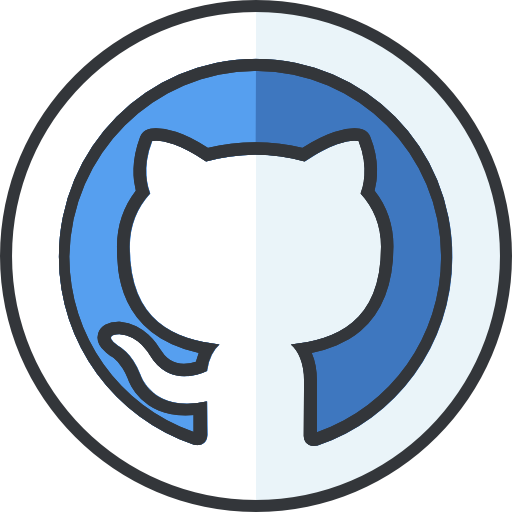
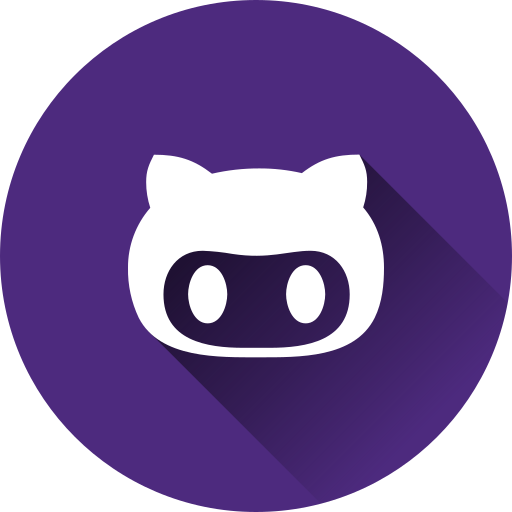
Cambiar el diseño del contenido
Le hice unos contenedores a los proyectos, cambie mi avatar, añadí mis redes sociales en el hero quitando el botón de contactar, eliminé el icono de github que estaba en la barra de navegación, y cambie el icono que se ve en la pestaña. Solo falta quitar unos selectores sin funcionamiento en el css.

diff --git a/index.html b/index.html
@@ -6,7 +6,7 @@
     <meta name="viewport" content="width=device-width, initial-scale=1.0">
     <title>Portafolio de proyectos: Jesús Mendoza</title>
     <meta name="description" content="Portafolio web de Jesús Mendoza, Ingeniero de Software. Descubre mis proyectos y habilidades en desarrollo y diseño web.">
-    <link rel="icon" href="img/home-icon.png">
+    <link rel="icon" href="img/page-icon.png">
     <link rel="stylesheet" href="css/normalize.css">
     <link rel="preconnect" href="https://fonts.googleapis.com">
     <link rel="preconnect" href="https://fonts.gstatic.com" crossorigin>
@@ -20,18 +20,15 @@
             <a href="index.html">Inicio</a>
             <a href="#servicios">Servicios</a>
             <a href="#proyectos">Proyectos</a>
-            <a class="github" target="_blank" href="https://github.com/jmendozadev">
-                <img src="img/github.png" alt="github">
-            </a>
         </nav>
     </div>
 
     <section class="hero">
         <div class="contenido-hero">
-            <img src="img/profile-photo.jpg" alt="foto de perfil" class="profile-photo">
+            <img src="img/avatar.png" alt="foto de perfil" class="profile-photo">
             <h2>Hola, soy <span>Jesús Mendoza</span></h2>
             <p class="descripcion"><span>Ingeniero de Software.</span> Enfocado en desarrollo web y diseño UX/UI. Diseño soluciones digitales funcionales, escalables y centradas en la experiencia.</p> 
-            <div class="ubicacion">
+<!--             <div class="ubicacion">
                 <svg xmlns="http://www.w3.org/2000/svg" class="icon icon-tabler icon-tabler-map-pin" width="60"
                     height="60" viewBox="0 0 24 24" stroke-width="1.5" stroke="#BBCDE5" fill="none"
                     stroke-linecap="round" stroke-linejoin="round">
@@ -40,15 +37,28 @@
                     <path d="M17.657 16.657l-4.243 4.243a2 2 0 0 1 -2.827 0l-4.244 -4.243a8 8 0 1 1 11.314 0z" />
                 </svg>
                 <p>Coatzacoalcos, Veracruz</p>
+            </div> -->
+            <!-- <a class="boton" href="mailto:jmendozadev@gmail.com">Contactar</a> -->
+            <div class="redes-sociales">
+                <a target="_blank" href="https://github.com/itsjesusdev">
+                    <img src="img/github.png" alt="github">
+                </a>
+                <a target="_blank" href="https://www.instagram.com/its.jesusdev/">
+                    <img src="img/instagram.png" alt="instagram">
+                </a>
+                <a target="_blank" href="https://www.linkedin.com/in/jesus-mendoza-mendoza/">
+                    <img class="linkedin" src="img/linkedin.png" alt="linkedin">
+                </a>
             </div>
-            <a class="boton" href="mailto:jmendozadev@gmail.com">Contactar</a>
+
+            </div>
         </div>
     </section>
 
-    <main class="contenedor sombra">
+    <main class="contenedor sombra-contenedor">
         <h2 id="servicios">Mis Servicios</h2>
         <div class="servicios">
-            <section class="servicio">
+            <section class="servicio servicio-web">
                 <h3>Desarrollo Web</h3>
                 <div class="iconos">
                     <svg xmlns="http://www.w3.org/2000/svg" class="icon icon-tabler icon-tabler-brand-html5" width="40"
@@ -59,10 +69,10 @@
                         <path d="M15.5 8h-7l.5 4h6l-.5 3.5l-2.5 .75l-2.5 -.75l-.1 -.5" />
                     </svg>
                 </div>
-                <p>Creo sitios web rápidos, seguros y escalables.</p>
+                <p>Sitios web rápidos, seguros y escalables.</p>
             </section>
 
-            <section class="servicio">
+            <section class="servicio servicio-uxui">
                 <h3>Diseño UX/UI</h3>
                 <div class="iconos">
                     <svg xmlns="http://www.w3.org/2000/svg" class="icon icon-tabler icon-tabler-palette" width="40"
@@ -76,14 +86,14 @@
                         <path d="M16.5 10.5m-1 0a1 1 0 1 0 2 0a1 1 0 1 0 -2 0" />
                     </svg>
                 </div>
-                <p>Transformo ideas en diseño atractivo, experiencias de usuario intuitivas y funcionales.</p>
+                <p>Experiencias de usuario intuitivas, y diseño atractivo.</p>
             </section>
         </div>
 
         <h2 id="proyectos">Mis Proyectos</h2>
         <div class="proyectos">
-            <section class="proyecto">
-                <img src="img/homepage-portafolio-web.jpg" alt="Proyecto 2">
+            <section class="proyecto sombra-proyecto">
+                <img class="project-ss" src="img/homepage-portafolio-web.jpg" alt="Proyecto 2">
                 <div class="contenido-proyecto">
                     <h3>Portafolio Web Personal</h3>
                     <p>Sitio web que presenta mi trayectoria y proyectos como ingeniero de software.</p>
@@ -98,8 +108,8 @@
                 </div>
             </section>
 
-            <section class="proyecto">
-                <img src="img/blog-literario.png" alt="Blog Literario">
+            <section class="proyecto sombra-proyecto">
+                <img class="project-ss" src="img/blog-literario.png" alt="Blog Literario">
                 <div class="contenido-proyecto">
                     <h3>Blog Literario</h3>
                     <p>Blog sobre reseñas de lecturas que alguien ha leído. Presenta contenido técnico de forma clara y estructurada.</p>
@@ -114,8 +124,8 @@
                 </div>
             </section>
 
-            <section class="proyecto">
-                <img src="img/homepage-ecommerce.jpg" alt="Proyecto 3">
+            <section class="proyecto sombra-proyecto">
+                <img class="project-ss" src="img/homepage-ecommerce.jpg" alt="Proyecto 3">
                 <div class="contenido-proyecto">
                     <h3>E-commerce de Camisetas</h3>
                     <p>Tienda en línea desarrollada como práctica de curso, utilizando HTML y CSS.</p>
@@ -130,8 +140,8 @@
                 </div>
             </section>
 
-            <section class="proyecto">
-                <img src="img/homepage-empleate.jpg" alt="Proyecto 5">
+            <section class="proyecto sombra-proyecto">
+                <img class="project-ss" src="img/homepage-empleate.jpg" alt="Proyecto 5">
                 <div class="contenido-proyecto">
                     <h3>Portal de Vacantes</h3>
                     <p>Aplicación web desarrollada con Laravel para gestionar ofertas de empleo del Ayuntamiento de Coatzacoalcos.</p>
@@ -143,8 +153,8 @@
                 </div>
             </section>
 
-            <section class="proyecto">
-                <img src="img/proyecto4.png" alt="Proyecto 6">
+            <section class="proyecto sombra-proyecto">
+                <img class="project-ss" src="img/proyecto4.png" alt="Proyecto 6">
                 <div class="contenido-proyecto">
                     <h3>Gestor de Cotizaciones y Carrito</h3>
                     <p>Aplicación web desarrollada con Laravel para administrar carritos de compra y generar cotizaciones, optimizando el flujo de ventas en línea.</p>
@@ -156,8 +166,8 @@
                 </div>
             </section>
 
-            <section class="proyecto">
-                <img src="img/proyecto6.png" alt="Proyecto 8">
+            <section class="proyecto sombra-proyecto">
+                <img class="project-ss" src="img/proyecto6.png" alt="Proyecto 8">
                     <div class="contenido-proyecto">
                     <h3>Prototipo UX - Plataforma Multimedia</h3>
                     <p>Diseño de alta fidelidad para red social enfocada en contenido multimedia.</p>
@@ -169,8 +179,8 @@
                 </div>
             </section>
 
-            <section class="proyecto">
-                <img src="img/proyecto7.png" alt="Proyecto 9">
+            <section class="proyecto sombra-proyecto">
+                <img class="project-ss" src="img/proyecto7.png" alt="Proyecto 9">
                 <div class="contenido-proyecto">
                     <h3>Prototipo UX - Videojuego Indie</h3>
                     <p>Diseño de alta fidelidad para videojuego presentado en ANFECA 2023. Segundo lugar en el área de tecnología. - Para visualizar correctamente en Figma, presiona la tecla “Z” si estás en computadora.</p>

diff --git a/css/style.css b/css/style.css
@@ -6,6 +6,7 @@
     --secundario: #1C5D99;
     --aqua: #639FAB;
     --grisClaro: #f5f5f5;
+    --grisOscuro: #d8d8d8;
 
     --fuente-principal: 3.8rem;
 }
@@ -34,7 +35,7 @@ body {
 /* Globales */
 .contenedor {
     /*toma estos pixeles como máximo y solamente si hay ese espacio disponible, si no toma el 100% que tiene por default cualquier div*/
-    max-width: 120rem;
+    max-width: 150rem;
     /* centrar el contenedor - En lugar de poner las cuatro propiedades, podemos poner margin: 0 auto; */
     margin-top: 0;
     margin-right: auto;
@@ -61,10 +62,11 @@ body {
     opacity: 0.9;
 }
 
-.sombra {
+.sombra-contenedor {
     box-shadow: 0px 5px 15px 0px rgba(112, 112, 112, 0.48);
     background-color: var(--blanco);
-    padding: 2rem;
+    padding: 5rem;
+    padding-bottom: 6rem;
     border-radius: 1rem;
 }
 
@@ -76,6 +78,8 @@ h1 {
 }
 
 h2 {
+    margin: 0;
+    margin-bottom: 3rem;
     font-size: 2.8rem;
     font-weight: 700;
 }
@@ -90,19 +94,6 @@ h1,
 h2,
 h3 {
     text-align: center;
-}
-
-/* Utilidades */
-.w-sm-100 {
-    width: 100%;
-}
-
-.flex {
-    display: flex;
-}
-
-.alinear-derecha {
-    justify-content: flex-end;
 }
 
 /* Navegación Principal */
@@ -179,6 +170,25 @@ h3 {
     justify-content: center;
 }
 
+.redes-sociales {
+    margin-top: 3rem;
+    display: flex;
+    flex-direction: row;
+    gap: 4rem;
+}
+
+.redes-sociales a {
+    text-decoration: none;
+}
+
+.redes-sociales img {
+    width: 5rem;
+}
+
+.linkedin {
+    border-radius: 100%;
+}
+
 .contenido-hero h2,
 .contenido-hero p
 {
@@ -198,9 +208,10 @@ h3 {
     background-repeat: no-repeat;
     background-position: center center;
     border-radius: 100%;
-    border: 1px solid white;
+    border: 2px solid white;
     width: 100px;
     height: 100px;
+    margin-bottom: 2rem;
     /* bottom: -50px;
     position: absolute; */
 }
@@ -215,14 +226,28 @@ h3 {
     align-items: flex-end;
 }
 
-/* Proyectos */
+/* Contenido Principal */
 .servicio,
+.proyecto {
+    margin-bottom: 5rem;
+}
+.servicio {
+    display: flex;
+    flex-direction: column;
+    align-items: center;
+    text-align: center;
+}
+
 .proyecto {
     display: flex;
     flex-direction: column;
     align-items: center;
     text-align: center;
-    margin-bottom: 2rem;
+}
+
+.sombra-proyecto {
+    border-radius: 1rem;
+    box-shadow: 3px 5px 12px 0px rgba(112, 112, 112, 0.40); /* derecha, abajo, desenfoque, sombra semitransparente */
 }
 
 .proyecto a {
@@ -248,14 +273,21 @@ h3 {
     align-items: center;
 }
 
-.proyecto .iconos {
-    
-}
-
-.proyecto img {
+.project-ss {
     max-width: 100%;
     height: auto;
-    border-radius: 1rem;
+    border-top-left-radius: 1rem;
+    border-top-right-radius: 1rem;
+}
+
+.contenido-proyecto {
+    padding: 2rem;
+    padding-bottom: 1rem;
+}
+
+.proyecto .iconos img {
+    width: 4rem;
+    height: auto;
 }
 
 /* Footer */
@@ -263,22 +295,7 @@ h3 {
     text-align: center;
 }
 
-@media (min-width: 768px) {
-    /* Volver a su tamaño por default */
-    .boton {
-        width: auto;
-    }
-
-    /* Utilidades */
-    .w-sm-100 {
-        width: auto;
-    }
-
-    /* Hero */
-    .descripcion {
-        text-align: center;
-        width: 480px;
-    }
+@media (min-width: 720px) {
 
     /* Servicios */
     .servicios {
@@ -289,8 +306,37 @@ h3 {
     /* Proyectos */
     .proyectos {
         display: grid;
-        grid-template-columns: repeat(3, 1fr);
-        column-gap: 1rem;
+        grid-template-columns: repeat(2, 1fr);
+        column-gap: 3rem;
         row-gap: 2rem;
+    } 
+}
+
+@media (min-width: 900px) {
+    /* Volver a su tamaño por default */
+    .boton {
+        width: auto;
+    }
+
+    /* Hero */
+    .descripcion {
+        text-align: center;
+        width: 480px;
+    }
+
+    /* Proyectos */
+    .proyectos {
+        display: grid;
+        grid-template-columns: repeat(3, 1fr);
+        column-gap: 3rem;
+        row-gap: 2rem;
+    }
+
+    .servicio-web {
+        padding-left: 20rem;
+    }
+
+    .servicio-uxui {
+        padding-right: 20rem;
     }
 }
